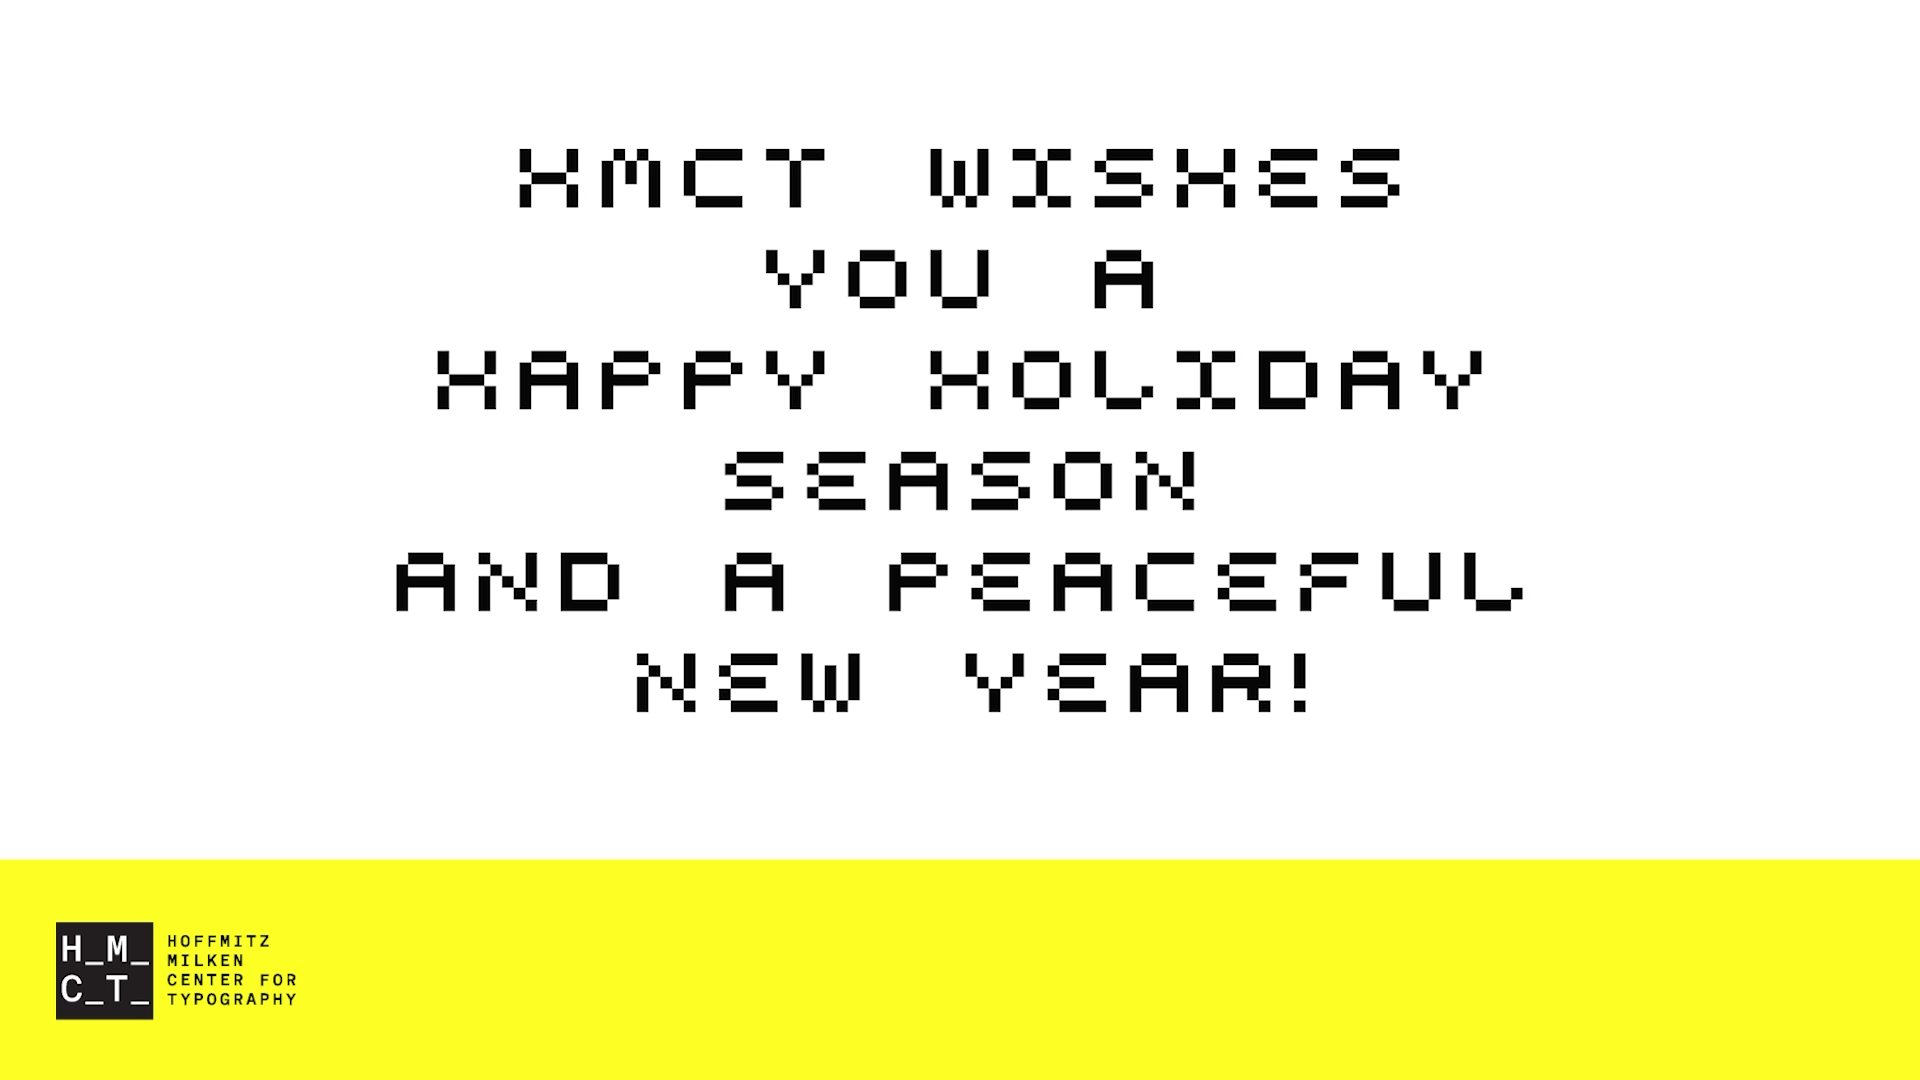
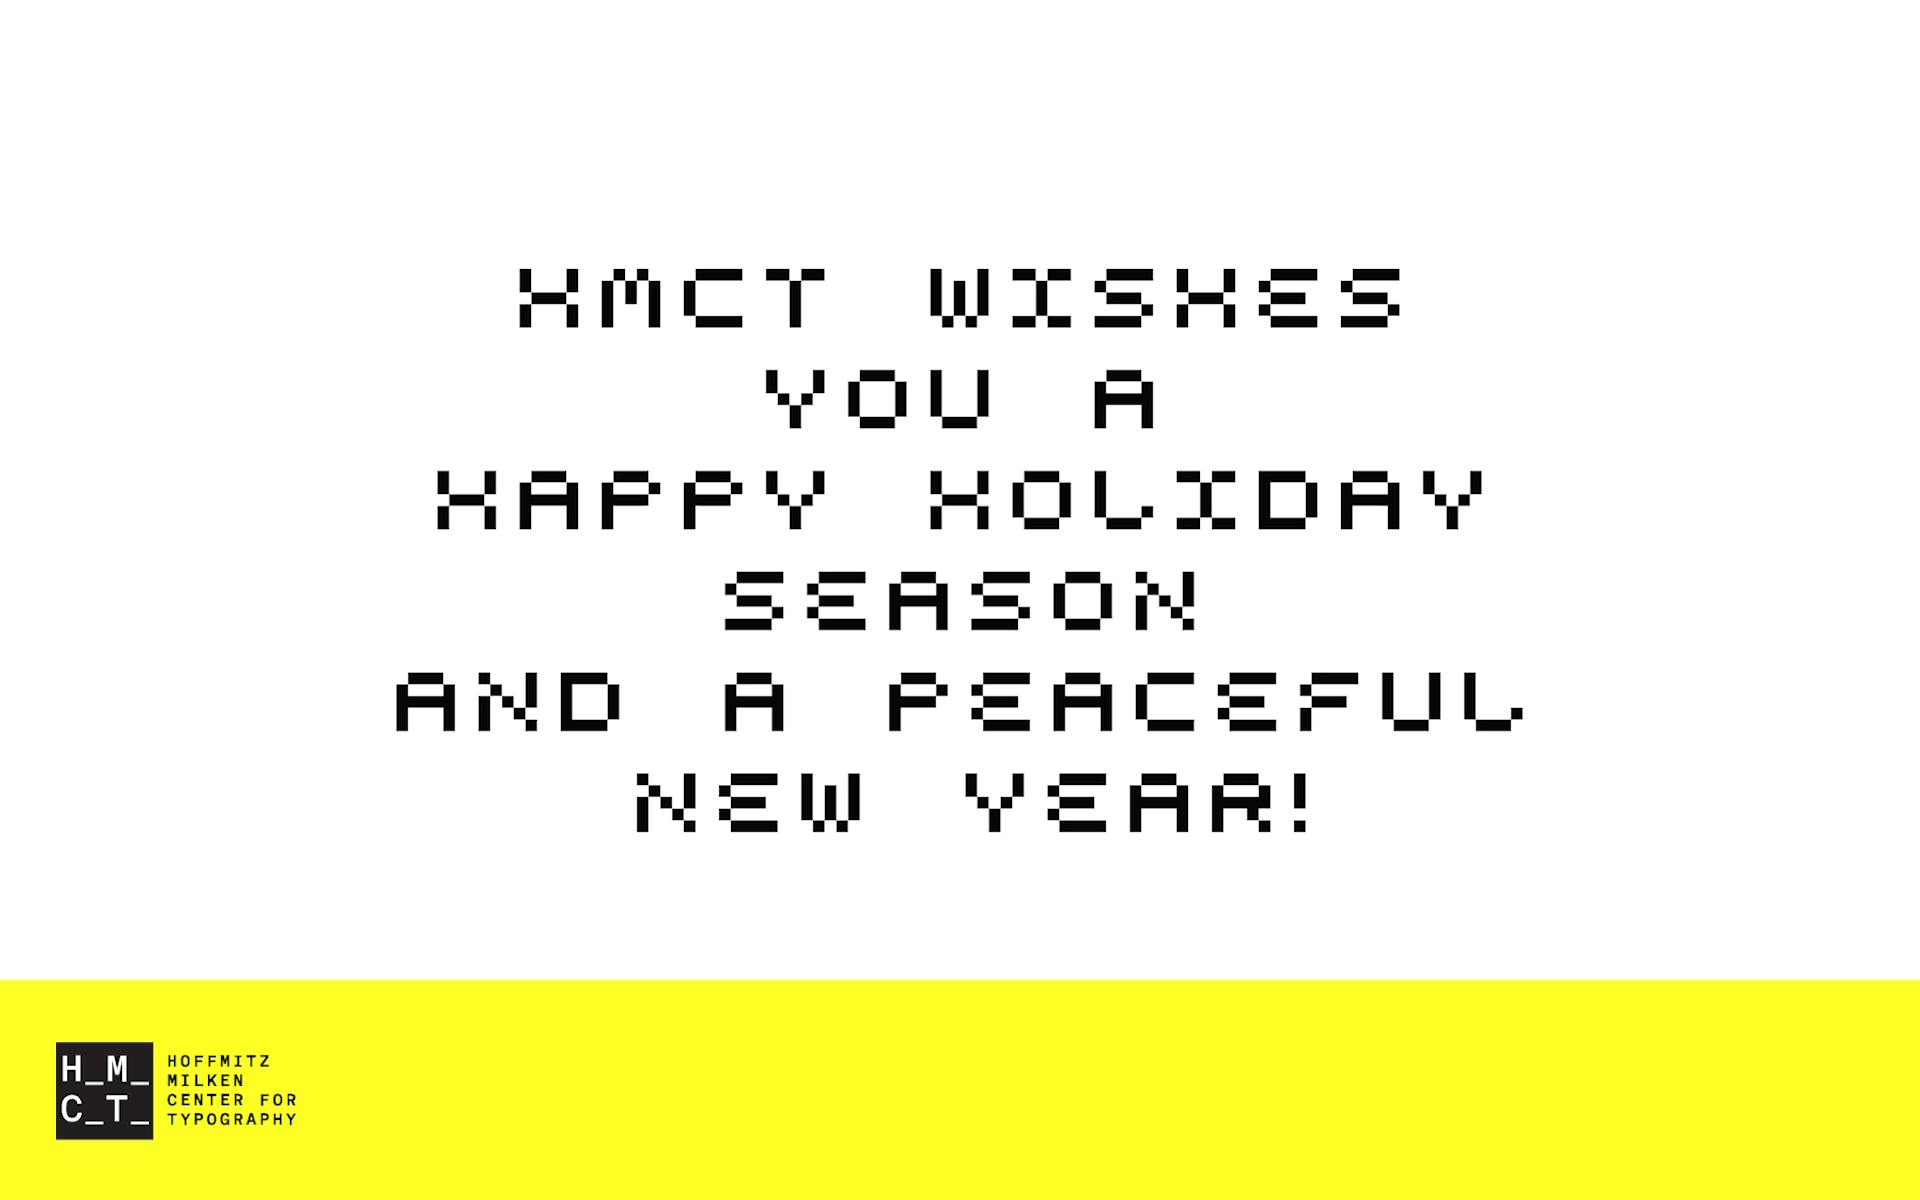
fix size + captions for referential mono project

Changed region(s): [[0.1875, 0.1222, 0.8125, 0.7028], [0.0, 0.7944, 1.0, 0.9778]]

diff --git a/docs/projects/referential-mono/index.html b/docs/projects/referential-mono/index.html
@@ -149,8 +149,10 @@
 </div>
 <div class="grid-2">
     <div class="project-content"><img class="lightbox" src="./img/Referential-Mono---cargo---4.png" alt=""/>
+        <p class="caption">A scale change shows the legibility of the letterforms.</p>
     </div>
     <div class="project-content"><img class="lightbox" src="./img/Referential-Mono---cargo---5.png" alt=""/>
+        <p class="caption">History often overlooks the contributions of non-European mathematicians, so this was an important reference.</p>
     </div>
 </div>
 <div class="grid-1">
@@ -163,10 +165,10 @@
 </div>
 <div class="grid-2">
     <div class="project-content"><img class="lightbox" src="./img/HMCT_holiday_greetings.png" alt=""/>
-        <p class="caption">Referential Mono was one of five typeface selected for HMCT’s 2023 holiday greetings email and social media posts.</p>
+        <p class="caption">Referential Mono was one of five typeface selected for HMCT’s 2023 holiday greetings email and social media&nbsp;posts.</p>
     </div>
     <div class="project-content"><img class="lightbox" src="./img/Referential-Mono---cargo---9.png" alt=""/>
-        <p class="caption">Final classroom critique with Simon Johnston and Lavinia Lascaris.</p>
+        <p class="caption">Final classroom critique with Simon Johnston and Lavinia&nbsp;Lascaris.</p>
     </div>
 </div>
 <div class="grid-1">

diff --git a/docs/dist/tailwind.css b/docs/dist/tailwind.css
@@ -834,8 +834,8 @@ select {
     /* larger screens only */
     @media only screen and (min-width: 1920px) {
         img.lightbox, video {
-            max-width: auto !important;
-            width: 100%;
+            /* max-width: auto !important;
+            width: auto; */
         }
     }
 
